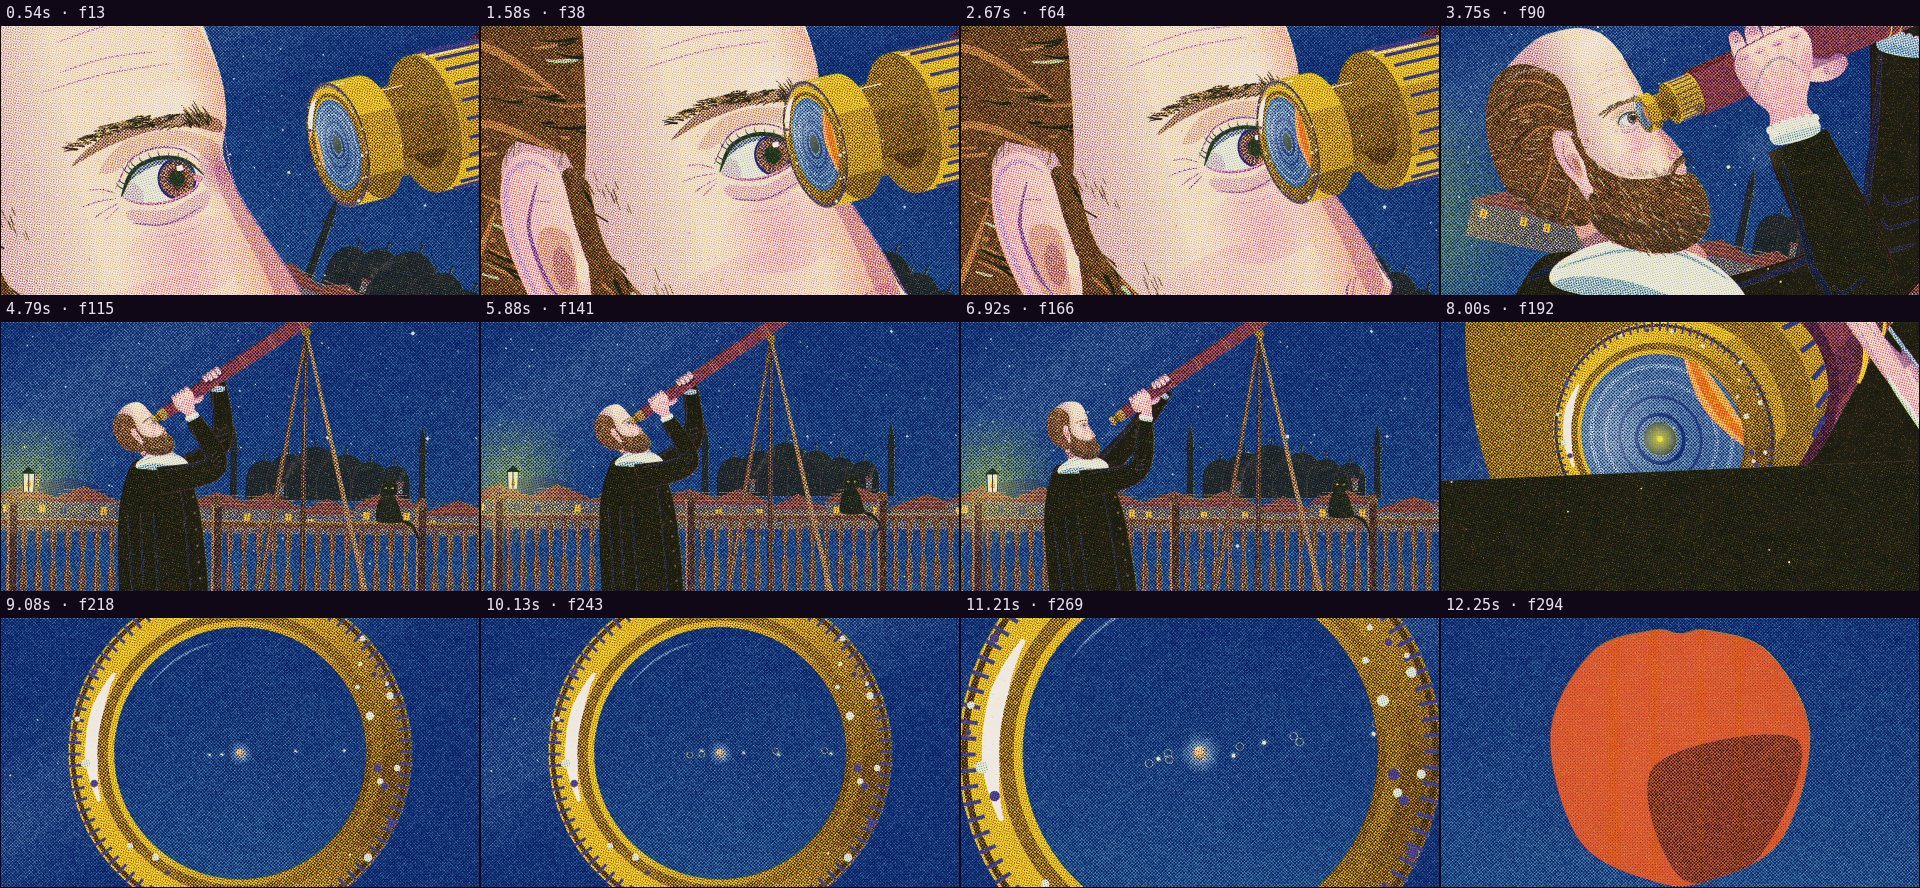
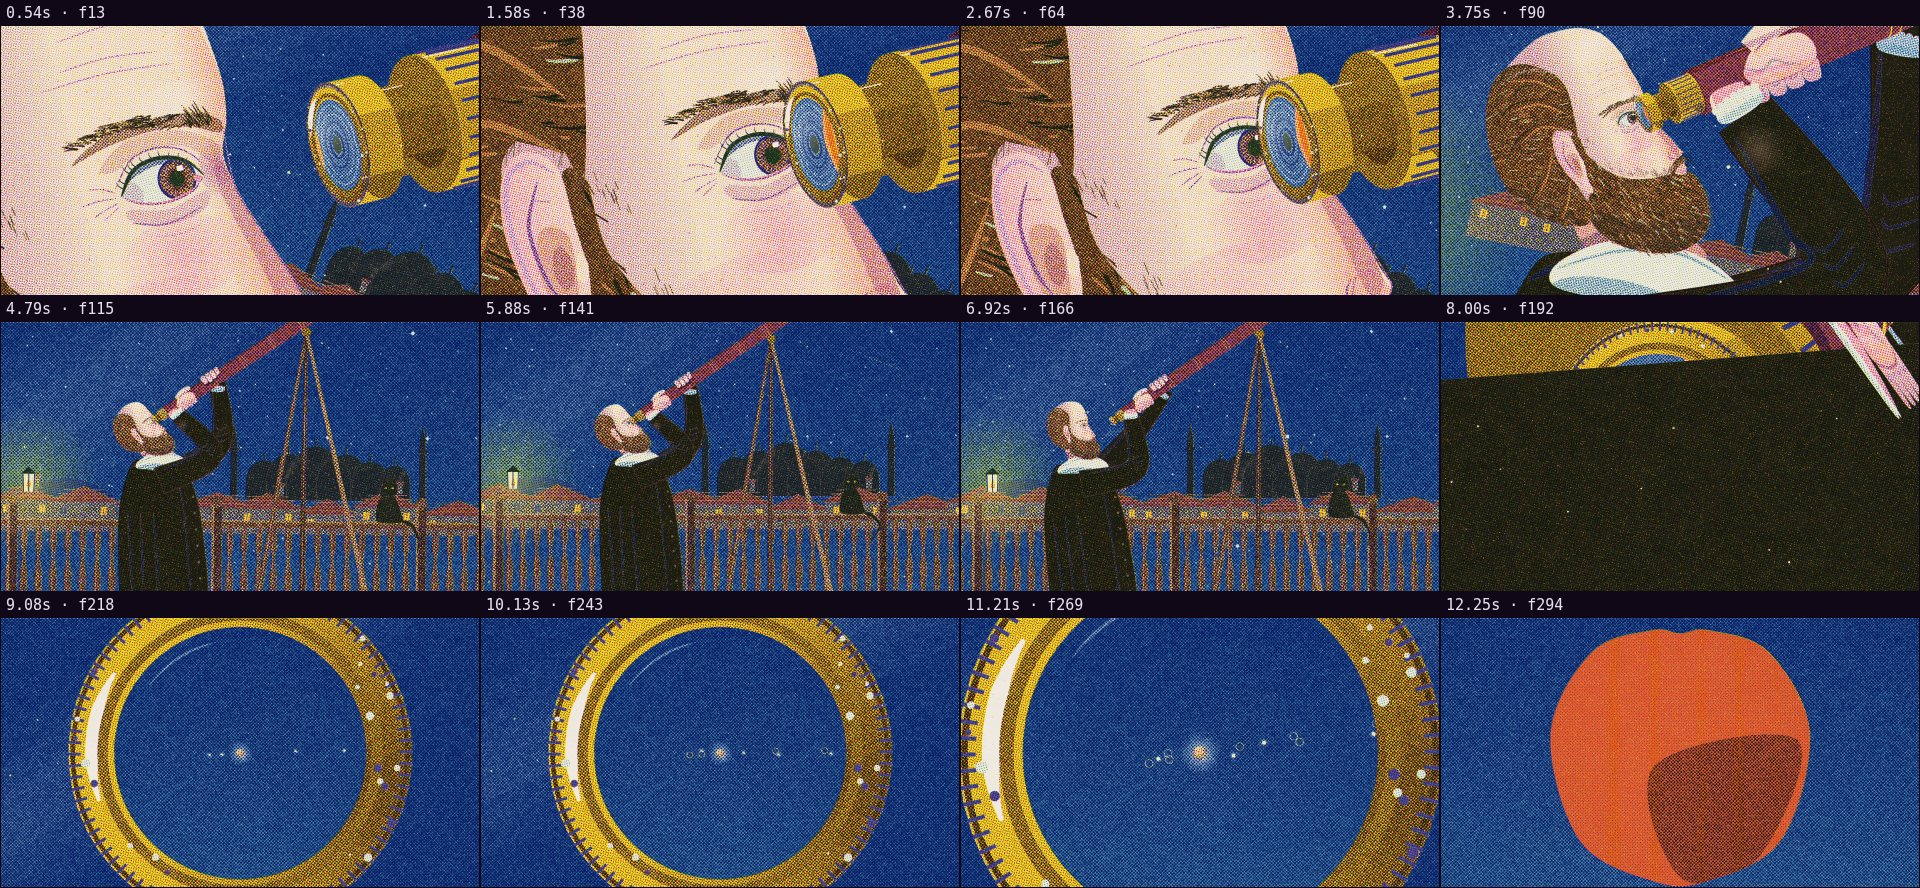
review(physics-history): round 16b · Galileo's right hand grips from below, thumb towards his face; the grip follows the forearm
Claude-Session: https://claude.ai/code/session_01FbC8jfwG91neyKwZD6gkGH

diff --git a/sandbox/2026-09-25-physics-history/hands-galileo.js b/sandbox/2026-09-25-physics-history/hands-galileo.js
@@ -8,6 +8,8 @@
 //                                as one holds a torch pointing forward: the back of the hand on
 //                                the near face, the fingers curling under, the thumb over the
 //                                top pointing forward, the index in front. o: { fa, squeeze }
+//   GalHands.over(press, r, o)   his right hand with the forearm coming up from below (Galileo):
+//                                fingers over the top, thumb under towards his face (−a)
 //   GalHands.far(press, r, o)    his left hand, from the far side: only the fingers show,
 //                                curling over the top and down the near face, nails towards us,
 //                                the index towards him (−a)
@@ -59,7 +61,7 @@ const GalHands = (() => {
     }
     const shade = (press, clipPath, fn) => { press.save(); press.clip(clipPath); fn(); press.restore(); };
 
-    const wristPt = (which, r) => (which === 'near' ? [-44, 4] : [4, r - 8]);
+    const wristPt = (which, r) => (which === 'near' ? [-44, 4] : which === 'over' ? [4, r + 20] : [4, r - 8]);
 
     // ── the right hand: a closed grip, the back of the hand towards us ─────────────────────
     function near(press, r, o = {}) {
@@ -106,6 +108,51 @@ const GalHands = (() => {
         cuff(press, W1, fa, 40, 0);
     }
 
+    // ── the right hand from below: a raised tube held with the forearm coming up under it ──
+    // With the forearm nearly upright and the palm against the tube's far side, the right hand's
+    // thumb points back towards his face (−a) and wraps under the tube; the fingers go over the
+    // top and away, the index next to the thumb (−a). Seen from his right: the back of the hand,
+    // the knuckles' row near the top edge, the thumb's round under the bottom edge at the back.
+    function over(press, r, o = {}) {
+        const sq = o.squeeze ?? 0;
+        // drawn in a mirrored frame (a → −a): the layout below has the thumb at +a
+        const fa = [-(o.fa ?? [0.35, 0.94])[0], (o.fa ?? [0.35, 0.94])[1]];
+        press.save(); press.each((g) => g.scale(-1, 1));
+        const FO = [[26, 16], [9.5, 16.5], [-6.5, 15.5], [-22, 13.5]]; // index → little
+        const W = [-4, r + 20], W1 = add(W, fa, 16), side = [fa[1], -fa[0]];
+        const fingers = FO.map(([ac, w]) => { const top = -r - 12 - sq * 0.6; return [[ac - w / 2, -r + 8], [ac - w / 2, -r - 3], [ac - w * 0.3, top], [ac + w * 0.3, top - 0.5], [ac + w / 2, -r - 3], [ac + w / 2, -r + 8]]; });
+        const th = digit([[20, r - 6], [32, r + 2], [44, r + 5 - sq], [52, r + 3 - sq]], 22, 15);
+        const HB = [[-31, -r + 11], [-24, -r + 3], [-8, -r + 1], [10, -r], [28, -r + 1.5], [36, -r + 8], [37, 0], [31, r - 4], [24, r + 6], add(W, side, 17), add(W1, side, 18), add(W1, side, -18), add(W, side, -17), [-28, r + 4], [-33, 2]];
+        // one skin: every piece knocked out and inked alike, shaded through one clip
+        const traced = [...fingers.map((f) => Ph.sample(f, true, 10)), th, Ph.sample(HB, true, 10)];
+        const all = (g) => { g.beginPath(); for (const P of traced) { P.forEach(([x, y], i) => (i ? g.lineTo(x, y) : g.moveTo(x, y))); g.closePath(); } };
+        press.knockout((g) => { all(g); g.fill('nonzero'); });
+        ink(press, (g) => { for (const P of traced) { P.forEach(([x, y], i) => (i ? g.lineTo(x, y) : g.moveTo(x, y))); g.closePath(); } }, SKIN);
+        press.save(); press.clip((g) => all(g));
+        ink(press, (g) => g.rect(-60, -r - 20, 130, 2 * r + 70), { 'pink.s': (g) => Riso.ramp(g, 0, -r + 6, 0, r + 30, 0.02, 0.3) });
+        ink(press, (g) => g.rect(-60, -r - 20, 130, 2 * r + 70), { 'pink.s': (g) => Riso.ramp(g, -34, 0, -12, 0, 0.24, 0), 'navy.s': (g) => Riso.ramp(g, -34, 0, -16, 0, 0.08, 0) });
+        // the fingers turn away over the top; the thumb's round goes under, into shade
+        ink(press, (g) => g.rect(-60, -r - 20, 130, 14), { 'pink.s': (g) => Riso.ramp(g, 0, -r + 2, 0, -r - 12, 0, 0.3) });
+        ink(press, (g) => g.rect(14, r - 10, 50, 30), { 'pink.s': (g) => Riso.ramp(g, 30, 0, 58, 0, 0.08, 0.36), 'navy.s': (g) => Riso.ramp(g, 36, 0, 58, 0, 0, 0.14) });
+        ink(press, (g) => g.rect(14, r - 10, 50, 7), { navy: 0.25, 'pink.s': 0.25 });
+        for (const [ac] of FO) line(press, [[W[0] + (ac - 2) * 0.25, W[1] - 8], [ac * 0.7, 2], [ac, -r + 9]], taper(3, 0.3, 0.3), { 'pink.s': 0.1 }, { knock: false });
+        line(press, [[-26, r - 2], [-10, 4], [4, 0], [14, 6], [20, r - 2]], taper(2.4, 0.2, 0.2), VEIN, { knock: false });
+        ink(press, ellipse(30, r - 6, 9, 14, 0.4), { 'pink.s': 0.16 });
+        press.restore();
+        // creases only: the knuckles and the finger joints on top, the gaps, the thumb's joint
+        for (const [ac, w] of FO) {
+            press.knockout(ellipse(ac + 0.5, -r + 5.5, w * 0.3, 3.4, 0));
+            line(press, [[ac - w * 0.25, -r + 9.5], [ac, -r + 10.8], [ac + w * 0.25, -r + 9.5]], taper(1, 0.3, 0.3), CREASE);
+            wrinkles(press, [ac + 0.5, -r - 6], Math.PI / 2, w, 3);
+        }
+        for (let i = 0; i < 3; i++) { const x = (FO[i][0] - FO[i][1] / 2 + FO[i + 1][0] + FO[i + 1][1] / 2) / 2; line(press, [[x, -r - 9], [x, -r + 3]], taper(1.4, 0.3, 0.2), SHADOW); }
+        line(press, [[20, r - 4], [28, r + 2]], taper(1.3, 0.2, 0.5), CREASE);
+        wrinkles(press, [40, r + 5], 0.1, 13, 2);
+        line(press, Ph.sample(HB, true, 6).slice(0, 30), taper(1, 0.1, 0.1), { 'pink.s': 0.35, 'navy.s': 0.2 }, { knock: false });
+        cuff(press, W1, fa, 40, 0);
+        press.restore();
+    }
+
     // ── the left hand: from the far side, its fingers curling over the top towards us ───────
     function far(press, r, o = {}) {
         const sq = o.squeeze ?? 0;
@@ -149,5 +196,5 @@ const GalHands = (() => {
         ink(press, (g) => smooth(g, [add(A, dir, depth * 0.4), add(B, dir, depth * 0.4), add(B, dir, depth), add(A, dir, depth)]), { 'blue.s': 0.2 });
     }
 
-    return { near, far, cuff, wristPt };
+    return { near, over, far, cuff, wristPt };
 })();

diff --git a/sandbox/2026-09-25-physics-history/segments/galileo-roof.js b/sandbox/2026-09-25-physics-history/segments/galileo-roof.js
@@ -381,7 +381,7 @@ var Seg = globalThis.Seg ?? (globalThis.Seg = {});
     function armAndHand(press, R, M, bf, which, s, pole, ps) {
         const F = tubeFrame(R, s), r = F.r, far = which === 'far';
         const sh = M.apply(bf(SHOULDER[which]));
-        const Wl = GalHands.wristPt(which, r), W = F.apply(Wl);
+        const Wl = GalHands.wristPt(which === 'near' ? 'over' : which, r), W = F.apply(Wl);
         const [el] = Fig.ik(sh, W, ARM[0] * M.k, ARM[1] * M.k, M.apply(bf(pole)));
         const v = F.inv([W[0] + (el[0] - W[0]) * 0.01, W[1] + (el[1] - W[1]) * 0.01]);
         const l = Math.hypot(v[0] - Wl[0], v[1] - Wl[1]) || 1, fa = [(v[0] - Wl[0]) / l, (v[1] - Wl[1]) / l];
@@ -396,7 +396,7 @@ var Seg = globalThis.Seg ?? (globalThis.Seg = {});
             hand: () => {
                 press.save();
                 press.each((g) => g.transform(F.J[0], F.J[1], F.J[2], F.J[3], F.o[0], F.o[1]));
-                GalHands[which](press, r, { fa, squeeze: which === 'near' ? 1.5 * Math.max(0, Math.sin((ps.lean + ps.look) * Math.PI)) : 0 });
+                GalHands[which === 'near' ? 'over' : which](press, r, { fa, squeeze: which === 'near' ? 1.5 * Math.max(0, Math.sin((ps.lean + ps.look) * Math.PI)) : 0 });
                 press.restore();
             },
         };

diff --git a/.claude/skills/animate/SKILL.md b/.claude/skills/animate/SKILL.md
@@ -110,7 +110,7 @@ invoices feeding into a slot gives the block one verb and fills the frame), and 
 product waiting for the user** when the claim is «you approve» (hover, a button ring
 pulsing on the beats, a turning hourglass: three signals read at speed).
 
-A round mechanical object seen at an angle (a lens, a wheel, a tube) is projected from 3D geometry with a camera, never hand-placed ellipses (physics-history scope3d.js). A move from a macro to a wide shot of the same subject is one continuous camera, never a cut between two drawings of it: draw the subject once at full detail (the macro's eye inside the whole head, head-galileo.js), dolly the camera (distance shrinks, focal length fixed, so far layers barely scale and the stars not at all), and put hands on a 3D prop in the prop's own projected frame so they stay on it at every size (hands-galileo.js). To move the camera into a character's point of view, have the character move out of the axis first (he pulls back, astonished), then let the camera take his place. Arms seen from the side are foreshortened: use the seen bone lengths, or the elbow juts out. Hands on a prop start from how a person really holds it (a raised tube: a power grip, fingers over the top, thumb under); every digit is drawn whole to its tip or goes out of sight behind the prop, never ends in the open. Check handedness against a real hand before drawing (a right hand holding a bar that points forward, seen from its right: thumb on top pointing forward, fingers curling under, index in front); a mirrored hand looks fine alone and wrong to everyone else. A hand is one skin: ink its pieces as one and draw only creases, never outlines between the parts. The sun, the moon and the sky only keep still under a pure dolly: when the camera pans, tilts or zooms to follow the action, give them a far-layer share of that motion, or they read as pasted onto the screen. A morph between striped objects rolls the camera first so the stripes run the same way; on a riso press a crossfade greys both images, so prefer a match cut on the beat (physics-history). Parallel block agents (physics-history: four figures in parallel, joins intact): give every join as an exact screen state ("the ground plus one amber line, 8 wide, full width at y = 450"), so the cut is a match the lead can check; let a segment call its neighbour's drawing for its first frames; wrap every segment file in an IIFE (they share one global scope); give each agent's dev scene its own folder, or their stills and reviews overwrite each other. One brief for all (see `sandbox/2026-09-24-saas-promo` history),
+A round mechanical object seen at an angle (a lens, a wheel, a tube) is projected from 3D geometry with a camera, never hand-placed ellipses (physics-history scope3d.js). A move from a macro to a wide shot of the same subject is one continuous camera, never a cut between two drawings of it: draw the subject once at full detail (the macro's eye inside the whole head, head-galileo.js), dolly the camera (distance shrinks, focal length fixed, so far layers barely scale and the stars not at all), and put hands on a 3D prop in the prop's own projected frame so they stay on it at every size (hands-galileo.js). To move the camera into a character's point of view, have the character move out of the axis first (he pulls back, astonished), then let the camera take his place. Arms seen from the side are foreshortened: use the seen bone lengths, or the elbow juts out. Hands on a prop start from how a person really holds it (a raised tube: a power grip, fingers over the top, thumb under); every digit is drawn whole to its tip or goes out of sight behind the prop, never ends in the open. Check handedness against a real hand in the character's pose, forearm included, before drawing: the grip follows the forearm's direction and the palm's side (right forearm coming up from below a raised tube, palm on its far side: fingers over the top, thumb under towards the face; right forearm coming from behind along a bar: torch grip, thumb on top pointing forward). A mirrored hand looks fine alone and wrong to everyone else. When the user flags one detail, fix that detail; do not redesign what was right. A hand is one skin: ink its pieces as one and draw only creases, never outlines between the parts. The sun, the moon and the sky only keep still under a pure dolly: when the camera pans, tilts or zooms to follow the action, give them a far-layer share of that motion, or they read as pasted onto the screen. A morph between striped objects rolls the camera first so the stripes run the same way; on a riso press a crossfade greys both images, so prefer a match cut on the beat (physics-history). Parallel block agents (physics-history: four figures in parallel, joins intact): give every join as an exact screen state ("the ground plus one amber line, 8 wide, full width at y = 450"), so the cut is a match the lead can check; let a segment call its neighbour's drawing for its first frames; wrap every segment file in an IIFE (they share one global scope); give each agent's dev scene its own folder, or their stills and reviews overwrite each other. One brief for all (see `sandbox/2026-09-24-saas-promo` history),
 the approved frames as the bar, on-screen text only through copy keys, shared kits
 read-only, the lead merges by file. Ask each for a shot list with times: it is also the cue
 sheet for the sound.

diff --git a/sandbox/2026-09-25-physics-history/review.md b/sandbox/2026-09-25-physics-history/review.md
@@ -528,3 +528,23 @@ What changed:
 or left hand the same way and note where the thumb and the index go. Mirror errors are not
 visible in a single piece, only against a real hand. A hand is one skin: never outline its
 parts.
+
+### Round 16b (user)
+
+> Ya te adelanto que has empeorado las manos y no te has enterado de mi revisión de antes
+
+The grip depends on where the forearm comes from, and I had changed the whole grip instead
+of the thumb's side.
+
+- **Galileo:** the forearm comes up from below, nearly upright, with the palm against the
+  tube's far side. So the right hand's thumb points back towards his face and wraps under the
+  tube; the fingers go over the top, with the index next to the thumb (`GalHands.over`). Round
+  14 had this grip mirrored: the thumb pointed forward, as a left hand's would.
+- **Faraday:** the forearm comes from behind, along the magnet. So the torch grip is right
+  for him (`GalHands.near`): the thumb on top pointing forward, the fingers under.
+- Both hands are one skin, without outlines between the pieces.
+
+**Lesson (animate):** a grip is decided by the forearm's direction and the palm's side, not by
+the object. Hold the object with your own hand in the character's pose, forearm included,
+before drawing. When the user flags one detail (the thumb's side), fix that detail; do not
+redesign what was right.

diff --git a/sandbox/2026-09-25-physics-history/dev/roof/review/auto.md b/sandbox/2026-09-25-physics-history/dev/roof/review/auto.md
@@ -11,7 +11,7 @@
 Energy per second (how much the image changes):
 
 ```
-▃▆▄█▅▂▃█▅▁▃▄▆
+▃▆▄█▅▂▃█▆▁▃▄▆
 0    5    10   
 ```
 
@@ -21,7 +21,7 @@ Large jumps outside cuts (can be normal in dense patterns; check whether they bo
 
 ## Speed
 
-Painting: 413 ms/frame cold, 363 ms warm → full render ≈ 111 s at this size.
+Painting: 424 ms/frame cold, 376 ms warm → full render ≈ 115 s at this size.
 
 ## Contact sheet
 
